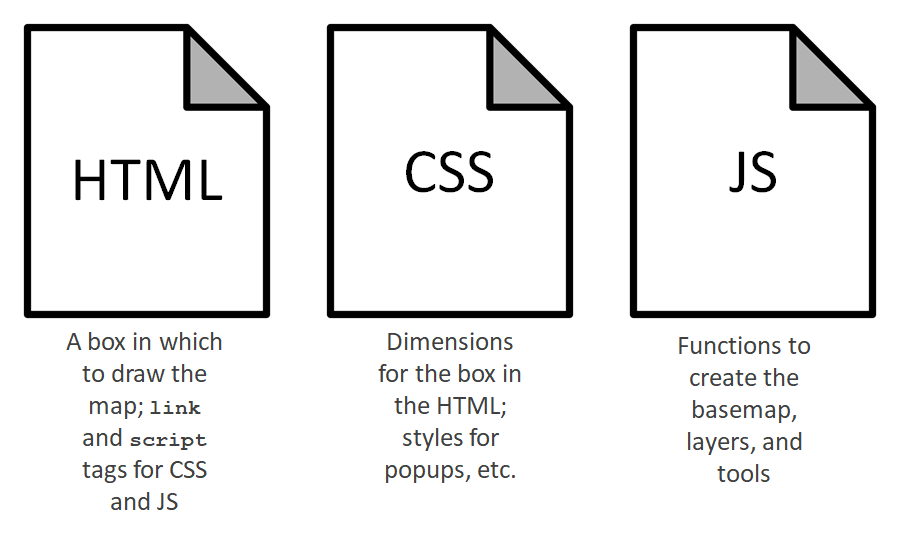
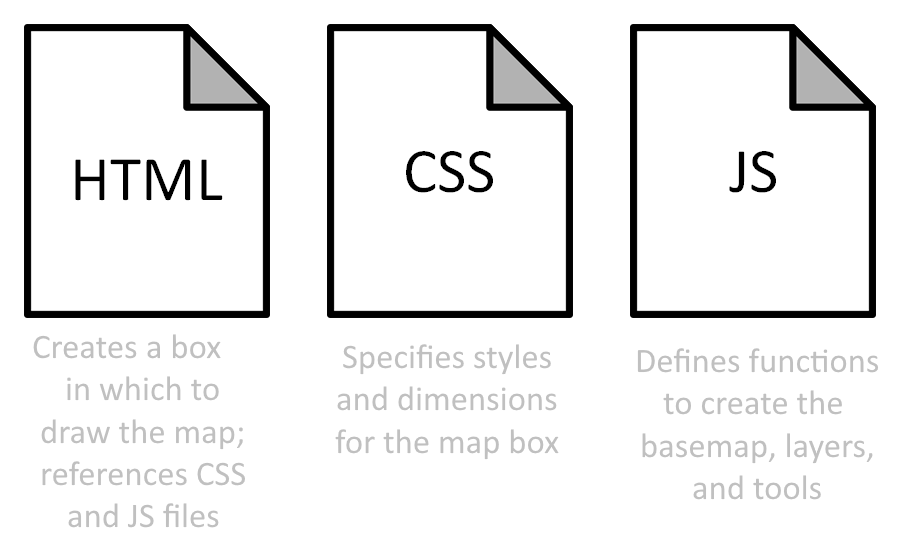
HTML, CSS, JS update

diff --git a/lessons/lesson-11/index.html b/lessons/lesson-11/index.html
@@ -45,8 +45,6 @@
   <li><a href="#other-learning-resources">Other Learning Resources</a></li>
 </ul>
 
-<p>Terms: webpage, website, source code, web browser, Hypertext Markup Language (HTML), Cascading Style Sheets (CSS), JavaScript</p>
-
 <h2 id="introduction">Introduction</h2>
 <p>So far in this course we have mainly used Web GIS without programming. Google Earth Engine was a shift toward coding, requiring some copy &amp; paste coding with a bit of customization, as a segue into the final module of this course where we build our own maps and apps.</p>
 
@@ -109,7 +107,7 @@ is the same as:<br />
 <p>The <code>.html</code> refers to Hypertext Markup Language, one of the main languages that browsers use to interpret webpage documents. The two other languages are CSS and JavaScript.</p>
 
 <h2 id="html-css-and-javascript">HTML, CSS, and JavaScript</h2>
-<p>While there are many computer languages used on servers to generate webpages and applications on web servers, only three languages are used to deliver the webpage to the client browser:</p>
+<p>While there are many computer languages used on servers to generate webpages and applications on web servers, the code of only three languages is transmitted to the client browser:</p>
 <ul>
   <li><strong>Hypertext Markup Language (HTML)</strong> gives the browser information about the content and what resources to download, e.g., images, CSS files, and JavaScript files.</li>
   <li><strong>Cascading Style Sheets (CSS)</strong> contain rules for how webpage content should be presented, such as fonts, colors, and alignment.</li>
@@ -133,7 +131,7 @@ is the same as:<br />
 <h2 id="html-css-js-for-web-maps">HTML-CSS-JS for Web Maps</h2>
 <p>HTML, CSS, and JavaScript each serve roles in displaying a web map on a webpage.</p>
 <ul>
-  <li>HTML creates an “invisible box” that will be like a canvas on which the map is drawn.</li>
+  <li>HTML creates space on the webpage (a box, basically) that will be like a canvas on which the map is drawn.</li>
   <li>CSS sets the dimensions of the box to control the size of the map on the screen, as well as the appearance of popups and other visual components of the map.</li>
   <li>JavaScript retrieves data from web services, draws layers on the HTML canvas, listens for user clicks, zooms, pans, etc.</li>
 </ul>
@@ -144,7 +142,7 @@ is the same as:<br />
 <p>In terms of how those roles translate into code in each HTML, CSS, and JavaScript file, each map displayed on the webpage has a unique <code>id</code> that is referenced in the HTML. Then CSS and JavaScript work together to control the appearance and behavior of the map.</p>
 
 <p><img src="../../assignment-resources/images/id-id-id.png" alt="HTML, CSS, and JavaScript code using the same ID" />
-<em>Figure 6. The same <code>id</code> will be used to identify the map in the HTML, CSS, and JavaScript. The <code>id</code> is a unique name that you create, though usually a simple <code>map</code> will do.</em></p>
+<em>Figure 6. The same <code>id</code> will be used to identify the map in the HTML, CSS, and JavaScript. The <code>id</code> is a unique name that you create, though usually a simple “map” will do. In this figure, “mymap” was chosen.</em></p>
 
 <p>All three components are needed.</p>
 <ul>

diff --git a/lessons/lesson-13/index.html b/lessons/lesson-13/index.html
@@ -43,12 +43,10 @@
   <li><a href="#other-learning-resources">Other Learning Resources</a></li>
 </ul>
 
-<p>Terms: CSS, rule, selector, property</p>
-
 <h2 id="introduction">Introduction</h2>
 <p><strong>Cascading Style Sheets (CSS)</strong> are documents containing rules for how webpage content should be presented. CSS works alongside HTML in a <dfn title="Software that reads the code of a webpage document and renders the code as visual elements, e.g., fonts and graphics, to display on screen to the user (Lesson 11).">browser</dfn>. To get an idea of how much of a typical website’s appearance is controlled with CSS, look at the difference when CSS is disabled in the browser for LSU.edu:</p>
 
-<p><img src="../../assignment-resources/images/lsu-no-css.png" alt="Comparison of a webpage rendered in a browser with CSS and without CSS" class="shadow" />
+<p><img src="../../assignment-resources/images/lsu-no-css.png" alt="Comparison of a webpage rendered in a browser with CSS and without CSS" />
 <em>Figure 1. Comparison of a webpage rendered in a browser with CSS and without CSS.</em></p>
 
 <p>The comparison in the figure shows that CSS rules control not only colors and fonts but also the entire structure of the page.</p>

diff --git a/lessons/lesson-12/index.html b/lessons/lesson-12/index.html
@@ -44,8 +44,6 @@
   <li><a href="#summary">Summary</a></li>
 </ul>
 
-<p>Terms: markup, element, tag, semantic HTML</p>
-
 <h2 id="introduction">Introduction</h2>
 <p>Hypertext Markup Language (HTML) is one of three key languages used to code webpages. HTML gives the browser information about the content and what resources to download, e.g., images, CSS files, and JavaScript files.</p>
 
@@ -84,7 +82,7 @@
 
 <p>Opening and closing tags and content together make up an HTML <strong>element</strong>.</p>
 
-<p><img src="../../assignment-resources/images/html-element-anatomy.png" alt="HTML Element" />
+<p><img src="../../assignment-resources/images/html-element-anatomy.png" alt="HTML Element" class="shadow" />
 <em>Figure 4. Tags and content together make up an HTML element. Image source: <a href="https://developer.mozilla.org/en-US/docs/Learn/Getting_started_with_the_web/HTML_basics">Mozilla</a>.</em></p>
 
 <p>There are dozens of HTML tags. Here are just a few common examples.</p>

diff --git a/lessons/lesson-14/index.html b/lessons/lesson-14/index.html
@@ -45,8 +45,6 @@
   <li><a href="#other-learning-resources">Other Learning Resources</a></li>
 </ul>
 
-<p>Terms: JavaScript, library, variable, object, array, functions and methods, parameter</p>
-
 <h2 id="introduction">Introduction</h2>
 <p><strong>JavaScript</strong> is a programming language that allows us to give instructions for how the browser should react to certain events, such as when the user clicks something or when the web page finishes loading. If a user clicks a polygon on a web map, for example, JavaScript can show a popup with information about the feature.</p>
 
